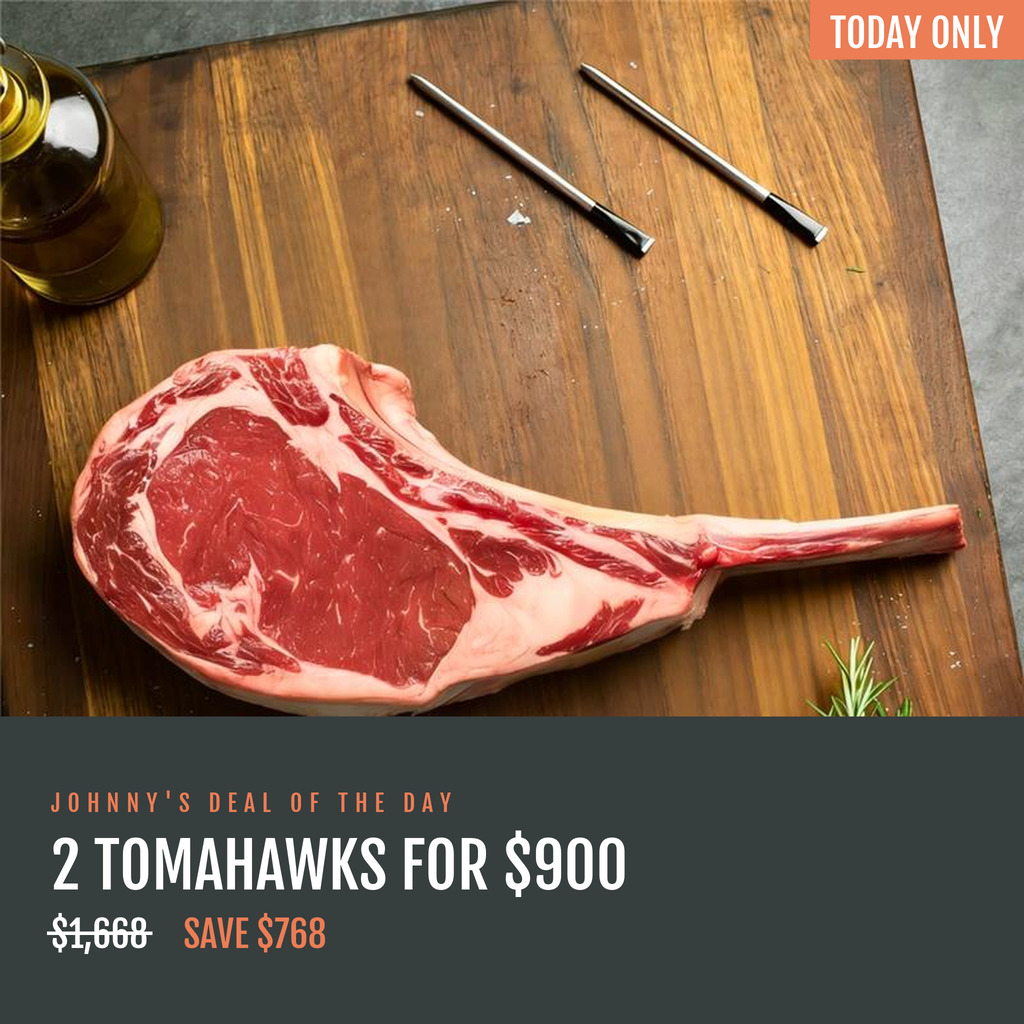
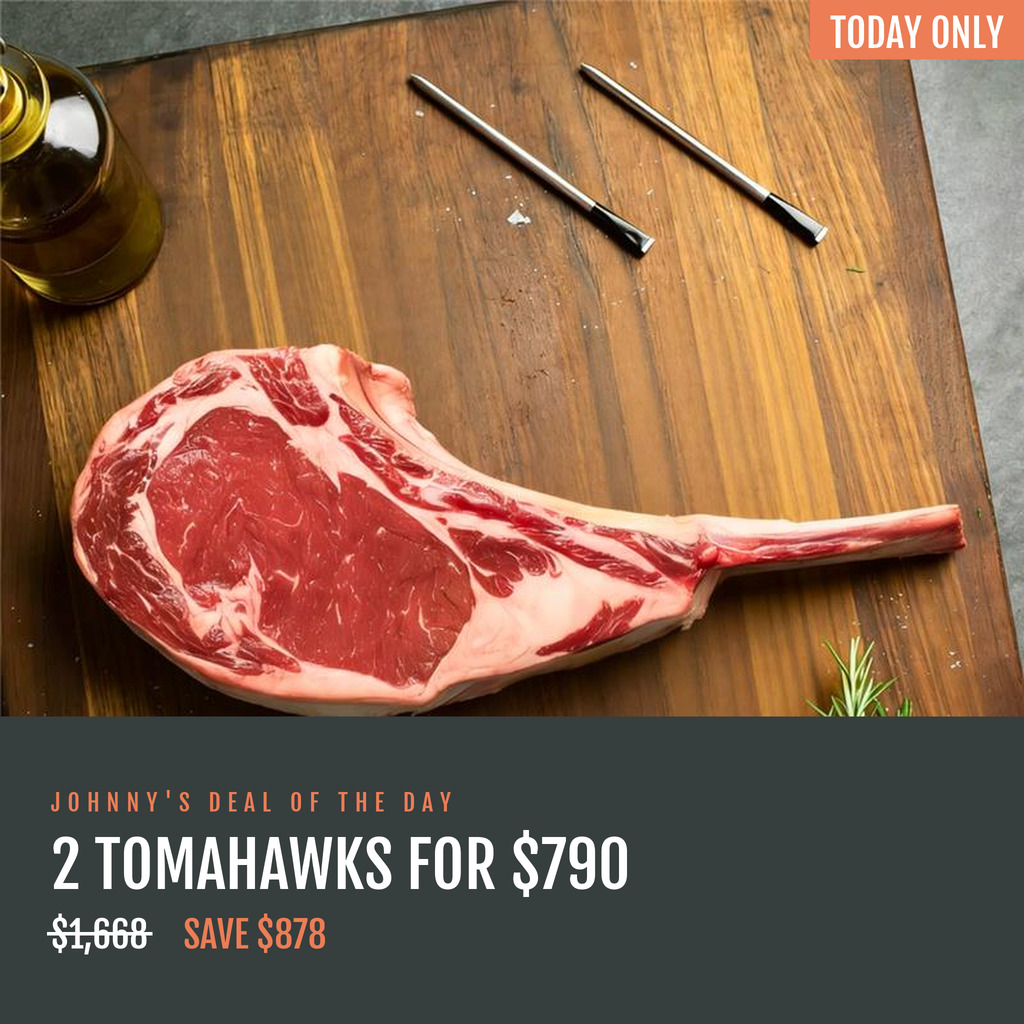
Update: 45% margin exception opens up more of David's list
Norwegian salmon becomes Beat the Clock run one, the Fishmonger's Box
carries halibut and prawns, tomahawks repriced from 46% to 52% off, and
the Butcher's Choice box now fills from David's SKUs first.

Changed region(s): [[0.0938, 0.8125, 0.625, 0.9375], [0.0625, 0.9062, 0.125, 0.9375]]

diff --git a/steak-king/johnnys-deal-planner.html b/steak-king/johnnys-deal-planner.html
@@ -528,17 +528,17 @@ const PLAN = {
           source:'Chilled Wagyu M4-5 Tenderloin (Chateaubriand) 800g', banner:["70% OFF Two Wagyu Chateaubriands"], clone:'Two Wagyu Chateaubriands, 1.6kg — $524 Today Only', price:'$524', compare:'$1,776'}
       },
       '2026-09-05':{
-        id:'sep-tomahawks', title:'Two Angus M1-2 Tomahawks, 2.4kg for $900', mech:'Quantity Flash', tag:'new',
+        id:'sep-tomahawks', title:'Two Angus M1-2 Tomahawks, 2.4kg for $790', mech:'Quantity Flash', tag:'new',
         img:IMG('files/RSM1-2Tomahawk.jpg'),
-        price:'2 pieces for $900', vs:'Rangers Station Black Angus M1-2 Tomahawk 1.2kg · RRP $1,668 · 46% off', margin:'52% margin',
-        lines:[['Day target','$106,628'],['Stock','115 sets.'],['From David\'s list','One of the fourteen SKUs he asked to see in the mix.']],
-        why:'David\'s pick, and the one on his list with the most presentation value. The headline is the softest in the month at 46%, because the tomahawk carries a $216 unit cost against an $834 RRP and the margin floor will not stretch further. It earns the slot anyway: a tomahawk is the single most photographed thing in the catalogue and Saturday is when the weekend cook gets decided. This is a deal that sells on the picture, not the percentage.',
-        build:{desc:{hook:"TWO ANGUS TOMAHAWKS, 2.4KG, FOR $900",
-          sub:"Normally $1,668. That is 46% off. Two full bone-in ribeyes with the handle left on.",
+        price:'2 pieces for $790', vs:'Rangers Station Black Angus M1-2 Tomahawk 1.2kg · RRP $1,668 · 52% off', margin:'45% margin',
+        lines:[['Day target','$106,628'],['Stock','115 sets.'],['Margin exception','45%, not 52%. Approved for David\'s suggested SKUs.'],['From David\'s list','One of the fourteen SKUs he asked to see in the mix.']],
+        why:'David\'s pick, and the one on his list with the most presentation value. Priced on the 45% exception Hani opened up for David\'s list. At the 52% floor this could only show 46% off, which was the softest headline in the month; the seven extra points of depth buy it back to 52%. It earns the slot on more than the number, though: a tomahawk is the single most photographed thing in the catalogue and Saturday is when the weekend cook gets decided. This is a deal that sells on the picture, not the percentage.',
+        build:{desc:{hook:"TWO ANGUS TOMAHAWKS, 2.4KG, FOR $790",
+          sub:"Normally $1,668. That is 52% off. Two full bone-in ribeyes with the handle left on.",
           get:["Two Rangers Station Black Angus M1-2 tomahawks, 1.2kg each",
                "Bone in, frenched, roughly 5cm thick",
                "One tomahawk feeds two hungry people or three polite ones",
-               "Worth $1,668 at RRP. You keep $768.",
+               "Worth $1,668 at RRP. You keep $878.",
                "Under $1,000, so add one thing and delivery is free"],
           noteTitle:"Johnny on the tomahawk",
           note:["A tomahawk is a ribeye that kept its rib bone, frenched back so it looks like an axe. It is the only cut I sell that gets a reaction before anyone has tasted it.",
@@ -546,29 +546,35 @@ const PLAN = {
                 "Cook it like a small roast rather than a steak. Sear it hard on both sides, then finish it in the oven and use a thermometer, because a 1.2kg piece will not tell you what is going on inside it. Rest it fifteen minutes and carve it off the bone in thick slices.",
                 "Two of them is a table of four and an evening nobody forgets."],
           close:"Today only. Ends midnight."},
-          source:'Chilled Rangers Station Black Angus M1-2 Tomahawk 1.2kg', banner:['46% OFF Two Angus M1-2 Tomahawks'], clone:'Two Black Angus M1-2 Tomahawks, 2.4kg — $900 Today Only', price:'$900', compare:'$1,668'}
+          source:'Chilled Rangers Station Black Angus M1-2 Tomahawk 1.2kg', banner:['52% OFF Two Angus M1-2 Tomahawks'], clone:'Two Black Angus M1-2 Tomahawks, 2.4kg — $790 Today Only', price:'$790', compare:'$1,668'}
       },
       '2026-09-06':{
-        id:'sep-btc-usda-choice', title:'Beat the Clock — 2kg of USDA Ribeye, $798 Now, $898 at 1pm, $998 from 5pm', mech:'Rising Price', tag:'new',
-        img:IMG('files/USDAChoiceRibeye2.jpg'),
-        price:'from $798', tiers:[['$798','9:00am'],['$898','1:00pm'],['$998','5:00pm']],
-        vs:'Chilled USDA Choice Ribeye 1kg · RRP $1,792 · 55% off at open', margin:'52% / 57% / 62% margin',
-        lines:[['Day target','$100,393'],['Stock','161 sets. Thinnest of the week.'],['Distribution','WhatsApp broadcast 9am + social. No email in week one.']],
-        why:'Beat the Clock run one of three. Hani wants the mechanic to become something customers recognise and act on rather than a one-off test, so it runs roughly weekly on a rotating product. This is the right cut to open on: the value ribeye, the weakest straight headline of the block at 55%, and the lowest-target day of the week, so a first run costs little if the mechanic does nothing. Stock caps it at 161 sets, which also suits a ladder that is meant to reward buying early.',
-        build:{desc:{hook:"BEAT THE CLOCK: 2KG OF USDA RIBEYE FROM $798",
-          sub:"The price goes up twice today. Normally $1,792, so it opens at 55% off.",
-          how:["$798 from 9am.",
-               "$898 from 1pm.",
-               "$998 from 5pm until midnight.",
+        id:'sep-btc-salmon', title:'Beat the Clock — 5kg of Norwegian Salmon, $548 Now, $648 at 1pm, $748 from 5pm', mech:'Rising Price', tag:'new',
+        img:IMG('files/Mix_image_WhatsAppImage2026-08-25at15.41.44_1_....png'),
+        price:'from $548', tiers:[['$548','9:00am'],['$648','1:00pm'],['$748','5:00pm']],
+        vs:'Frozen Norwegian Salmon Pieces 5kg box · RRP $2,998 · 81% off at open', margin:'45% / 54% / 60% margin',
+        lines:[['Day target','$100,393'],['Stock','11,596 units. Nothing else this month is this deep.'],
+               ['Margin exception','45% at the opening tier, back over 50% from 1pm. Approved for David\'s suggested SKUs.'],
+               ['From David\'s list','Norwegian salmon pieces, one of his fourteen.'],
+               ['Distribution','WhatsApp broadcast 9am + social.']],
+        why:'David asked for Norwegian salmon pieces and this is the only way it works. The SKU already lives at $598 against a $2,998 RRP, so a flat deal has almost no room: at the 52% floor it would price at $625, which is above its own shelf price. At 45% it opens at $548, and the rising price supplies the urgency the discount cannot. It also rotates Beat the Clock off beef for the first time, which is exactly what Hani asked for when he made it a weekly fixture, and it swaps out the USDA Choice ladder that was carrying the weakest headline of the three runs at 55%.',
+        flag:'Two to check. The $2,998 compare-at on a 5kg box is a 5x ratio, well above the 2x convention, so the 81% claim rests entirely on David\'s own anchor being right. And confirm salmon is not the September Emporium hero before this ships. It was the second hero in August.',
+        build:{desc:{hook:"BEAT THE CLOCK: 5KG OF NORWEGIAN SALMON FROM $548",
+          sub:"The price goes up twice today. Normally $2,998, so it opens at 81% off.",
+          how:["$548 from 9am.",
+               "$648 from 1pm.",
+               "$748 from 5pm until midnight.",
                "The price only ever goes up. Whatever it says when you check out is what you pay."],
-          get:["Two separate 1kg USDA Choice ribeyes, cut thick",
-               "Four proper steaks",
-               "Buy at 9am and you keep $994. By 5pm that is $794."],
-          noteTitle:"Johnny on USDA Choice",
-          note:["This is what most steakhouses are actually serving you, whatever the menu says. American grain fed, properly marbled, and very hard to ruin, which matters when you are cooking for people who will have opinions.",
-                "The clock is the whole deal today. Every window you let pass costs you a hundred dollars, and it never goes back down."],
-          close:"Back to $1,792 at midnight, whatever time you buy."},
-          source:'Chilled USDA Choice Ribeye 1kg', banner:["PRICE RISES AT 1PM on 2kg USDA Ribeye"], clone:'2kg of USDA Choice Ribeye — the Price Rises at 1pm and Again at 5pm', price:'$798 → $898 → $998', compare:'$1,792'}
+          get:["A 5kg box of Norwegian salmon pieces, skin on",
+               "Portioned and frozen, so you take out what you need",
+               "Buy at 9am and you keep $2,450. By 5pm that is $2,250."],
+          noteTitle:"Johnny on buying salmon by the box",
+          note:["Five kilos sounds like a lot until you realise how often you reach for it. These are pieces rather than whole fillets, which is the practical way to buy salmon: pull out two for a Tuesday, six when people come over, and there is no whole side sitting in the fridge quietly going off.",
+                "Norwegian salmon is the benchmark for a reason. Cold water, slow growth, and a fat line through the flesh that keeps it from drying out even if you overcook it slightly, which most people do.",
+                "Straight from frozen into a hot pan skin side down, press it flat for the first minute, and leave it alone. Or cure a few pieces with salt, sugar and dill and you have your own gravlax by Thursday.",
+                "The clock is the point today. Every window you let pass costs you a hundred dollars."],
+          close:"Back to $2,998 at midnight, whatever time you buy."},
+          source:'Frozen Norwegian Salmon Pieces - 1kg/5kg (5kg Box)', banner:['PRICE RISES AT 1PM on 5kg of Salmon'], clone:'5kg of Norwegian Salmon Pieces — the Price Rises at 1pm and Again at 5pm', price:'$548 → $648 → $748', compare:'$2,998'}
       },
       '2026-09-07':{
         id:'sep-wagyu-ribeye-3kg', title:'3kg of Wagyu M4-5 Ribeye for $1,325', mech:'Quantity Flash', tag:'proven',
@@ -638,24 +644,28 @@ const PLAN = {
           source:'Rangers Station Wagyu Sausages 500g (Plain + Caramelised Onion & Red Wine + Ghost Chilli)', banner:["82% OFF the Wagyu Sausage Flight"], clone:'The Wagyu Sausage Flight — 3 Flavours, 1.5kg · $208 Today Only', price:'$208', compare:'$1,200'}
       },
       '2026-09-13':{
-        id:'sep-prawns', title:'Buy 1kg of Cooked Prawns, Get the Second Kilo Free', mech:'Buy 1, Get 1 Free', tag:'new',
+        id:'sep-fishmongers-box', title:"The Fishmonger's Box — 3kg for $335", mech:'Fixed Bundle · Range Exposure', tag:'new',
         img:IMG('files/cooked-tiger-prawn-2.jpg'),
-        price:'2kg for $166', vs:'Australian Endeavor Prawn Cooked 1kg · RRP $776 · 78% off', margin:'52% margin',
-        lines:[['Day target','$100,393 — lowest of the block'],['Stock','58 sets. Thin, needs a restock.'],
-               ['Mechanic maths','1kg at $166, second kilo free. Everyday is $298, so the framing holds comfortably.'],
-               ['From David\'s list','One of the fourteen SKUs he asked to see in the mix.']],
-        why:'David\'s pick, and the only item on his list that clears an aggressive headline without argument: a $40 unit cost against a $388 RRP gives 78% off at the margin floor. It takes the block\'s quietest day, where a low ticket belongs, and it is the one genuine buy-one-get-one-free in the month because the paid kilo at $166 still sits well under the $298 everyday price. Stock is the only worry at 58 sets.',
-        build:{desc:{hook:"BUY 1KG OF COOKED PRAWNS, GET THE SECOND KILO FREE",
-          sub:"2kg for $166. Normally $776. That is 78% off.",
-          how:["Pay $166 for a kilo of Australian Endeavor prawns, already cooked and ready to eat.",
-               "Two kilos arrive. The second one is free.",
-               "No code and no minimum spend."],
-          noteTitle:"Johnny on the easy option",
-          note:["These come cooked, which means the hardest job you have all evening is finding a bowl big enough.",
-                "Defrost them, pile them up, put out lemon and something to dip them in and let everybody get on with it. Two kilos turns an ordinary Sunday into something that looks like a party, and you did not cook a single thing.",
-                "Anything left over goes into a sandwich the next day and quietly improves your Monday."],
+        price:'3kg for $335', vs:'Salmon pieces + halibut + cooked prawns · RRP $1,148 · 70% off', margin:'45% margin',
+        lines:[['Day target','$100,393 — lowest of the block'],['Stock','117 sets. Prawns are the constraint.'],
+               ['Margin exception','45%, not 52%. Approved for David\'s suggested SKUs.'],
+               ['From David\'s list','Three of his fourteen in one deal: Norwegian salmon pieces, halibut and cooked prawns.']],
+        why:'Three of David\'s SKUs that could not carry a deal on their own. Halibut caps out at 33% off at the 52% floor and prawns alone made a $166 deal with a 58-set ceiling, which is not worth a day. Put together at 45% they make a $335 three-kilo box at 70% off, which doubles the ticket on the block\'s quietest day and finally gives the seafood range a proper outing. Johnny was a fishmonger before he was a butcher and the site has never once led with that.',
+        build:{desc:{hook:"THE FISHMONGER'S BOX, 3KG, FOR $335",
+          sub:"Normally $1,148. That is 70% off. Three kilos of seafood, three different things to do with it.",
+          get:["Norwegian salmon pieces, skin on, 1kg",
+               "Halibut pieces, skinless, 1kg",
+               "Australian Endeavor prawns, cooked, 1kg",
+               "3kg in total, around $112 a kilo",
+               "Worth $1,148 at RRP. You keep $813."],
+          noteTitle:"Johnny on the fish",
+          note:["I was a fishmonger before I was a butcher, and it still bothers me that this shop is known for beef. This box is me making the case.",
+                "Salmon for the weeknight you meant to eat better. Straight from frozen, skin side down, pressed flat for a minute and then left alone.",
+                "Halibut is the one to cook when you want to impress somebody quietly. Firm, sweet, almost meaty, and it holds together in a pan in a way most white fish will not. Butter, lemon, capers, done.",
+                "The prawns are already cooked, so they are not really cooking at all. Defrost, pile up, lemon and something to dip them in, and let everybody help themselves.",
+                "Three kilos of seafood for $335 is the sort of number that makes me check my own maths."],
           close:"Today only. Ends midnight."},
-          source:'Frozen Australian Endeavor Prawn Cooked 1kg', banner:['BUY 1KG GET 1KG FREE on Cooked Prawns'], clone:'Buy 1kg Australian Cooked Prawns, Get the Second Kilo Free — $166', price:'$166', compare:'$776'}
+          source:"Bundle builder: Norwegian Salmon Skin-On Pieces 1kg + Halibut Pieces Skinless 1kg + Endeavor Prawn Cooked 1kg", banner:["70% OFF the 3kg Fishmonger's Box"], clone:"The Fishmonger's Box — Salmon, Halibut, Prawns · 3kg $335", price:'$335', compare:'$1,148'}
       },
       '2026-09-14':{
         id:'sep-beat-the-clock', title:'Beat the Clock — 1kg of Angus Ribeye, $448 Now, $498 at 1pm, $548 from 5pm', mech:'Rising Price', tag:'new',
@@ -705,7 +715,7 @@ const PLAN = {
         id:'sep-butchers-choice', title:"Butcher's Choice — 4kg, Johnny Picks, $849", mech:"Butcher's Choice Box", tag:'new',
         img:IMG('files/shutterstock_2594441313_1_cb96eb05-edbe-44c6-8180-3302b5e82c48.jpg'),
         price:'4kg for $849', vs:'Contents vary · RRP ~$2,200 · ~61% off', margin:'52% margin at a $408 cost cap',
-        lines:[['Day target','$124,088'],['Build rule','Total unit cost must not exceed $408. Worked example: 2 x Angus M1-2 Ribeye 1kg + 1 x M1-2 Striploin 1kg + 1 x Chicken Supreme 1kg = $393 cost, $2,191 RRP, 61% off, 54% margin.']],
+        lines:[['Day target','$124,088'],['Fill from David\'s list first','M9+ beef cheeks, whole chickens and the Frenched lamb rack once it restocks. None of them can headline a day at 45%, but they are exactly what a butcher\'s box is for, and it puts three more of his fourteen into the month without spending a slot.'],['Build rule','Total unit cost must not exceed $408. Worked example: 2 x Angus M1-2 Ribeye 1kg + 1 x M1-2 Striploin 1kg + 1 x Chicken Supreme 1kg = $393 cost, $2,191 RRP, 61% off, 54% margin.']],
         why:'The only deal in the month that cannot be broken by a stock-out, because the contents flex to whatever is in the cold room. It is also the only mechanic that clears overhang without us having to pick a loser SKU and put it in a window. Moved up from the 19th to make room for the third Beat the Clock run. At $849 it is the right weight for a $124k Wednesday, and a mystery box is exactly the kind of thing that earns a mid-week click.',
         flag:'Never publish the contents in advance and never publish a unit count. The price is known, the contents are the surprise. The box must state a guaranteed floor (at least 2kg of chilled premium beef) so nobody feels they got the offcuts.',
         build:{desc:{hook:"BUTCHER'S CHOICE: 4KG OF MEAT FOR $849. JOHNNY PICKS.",
